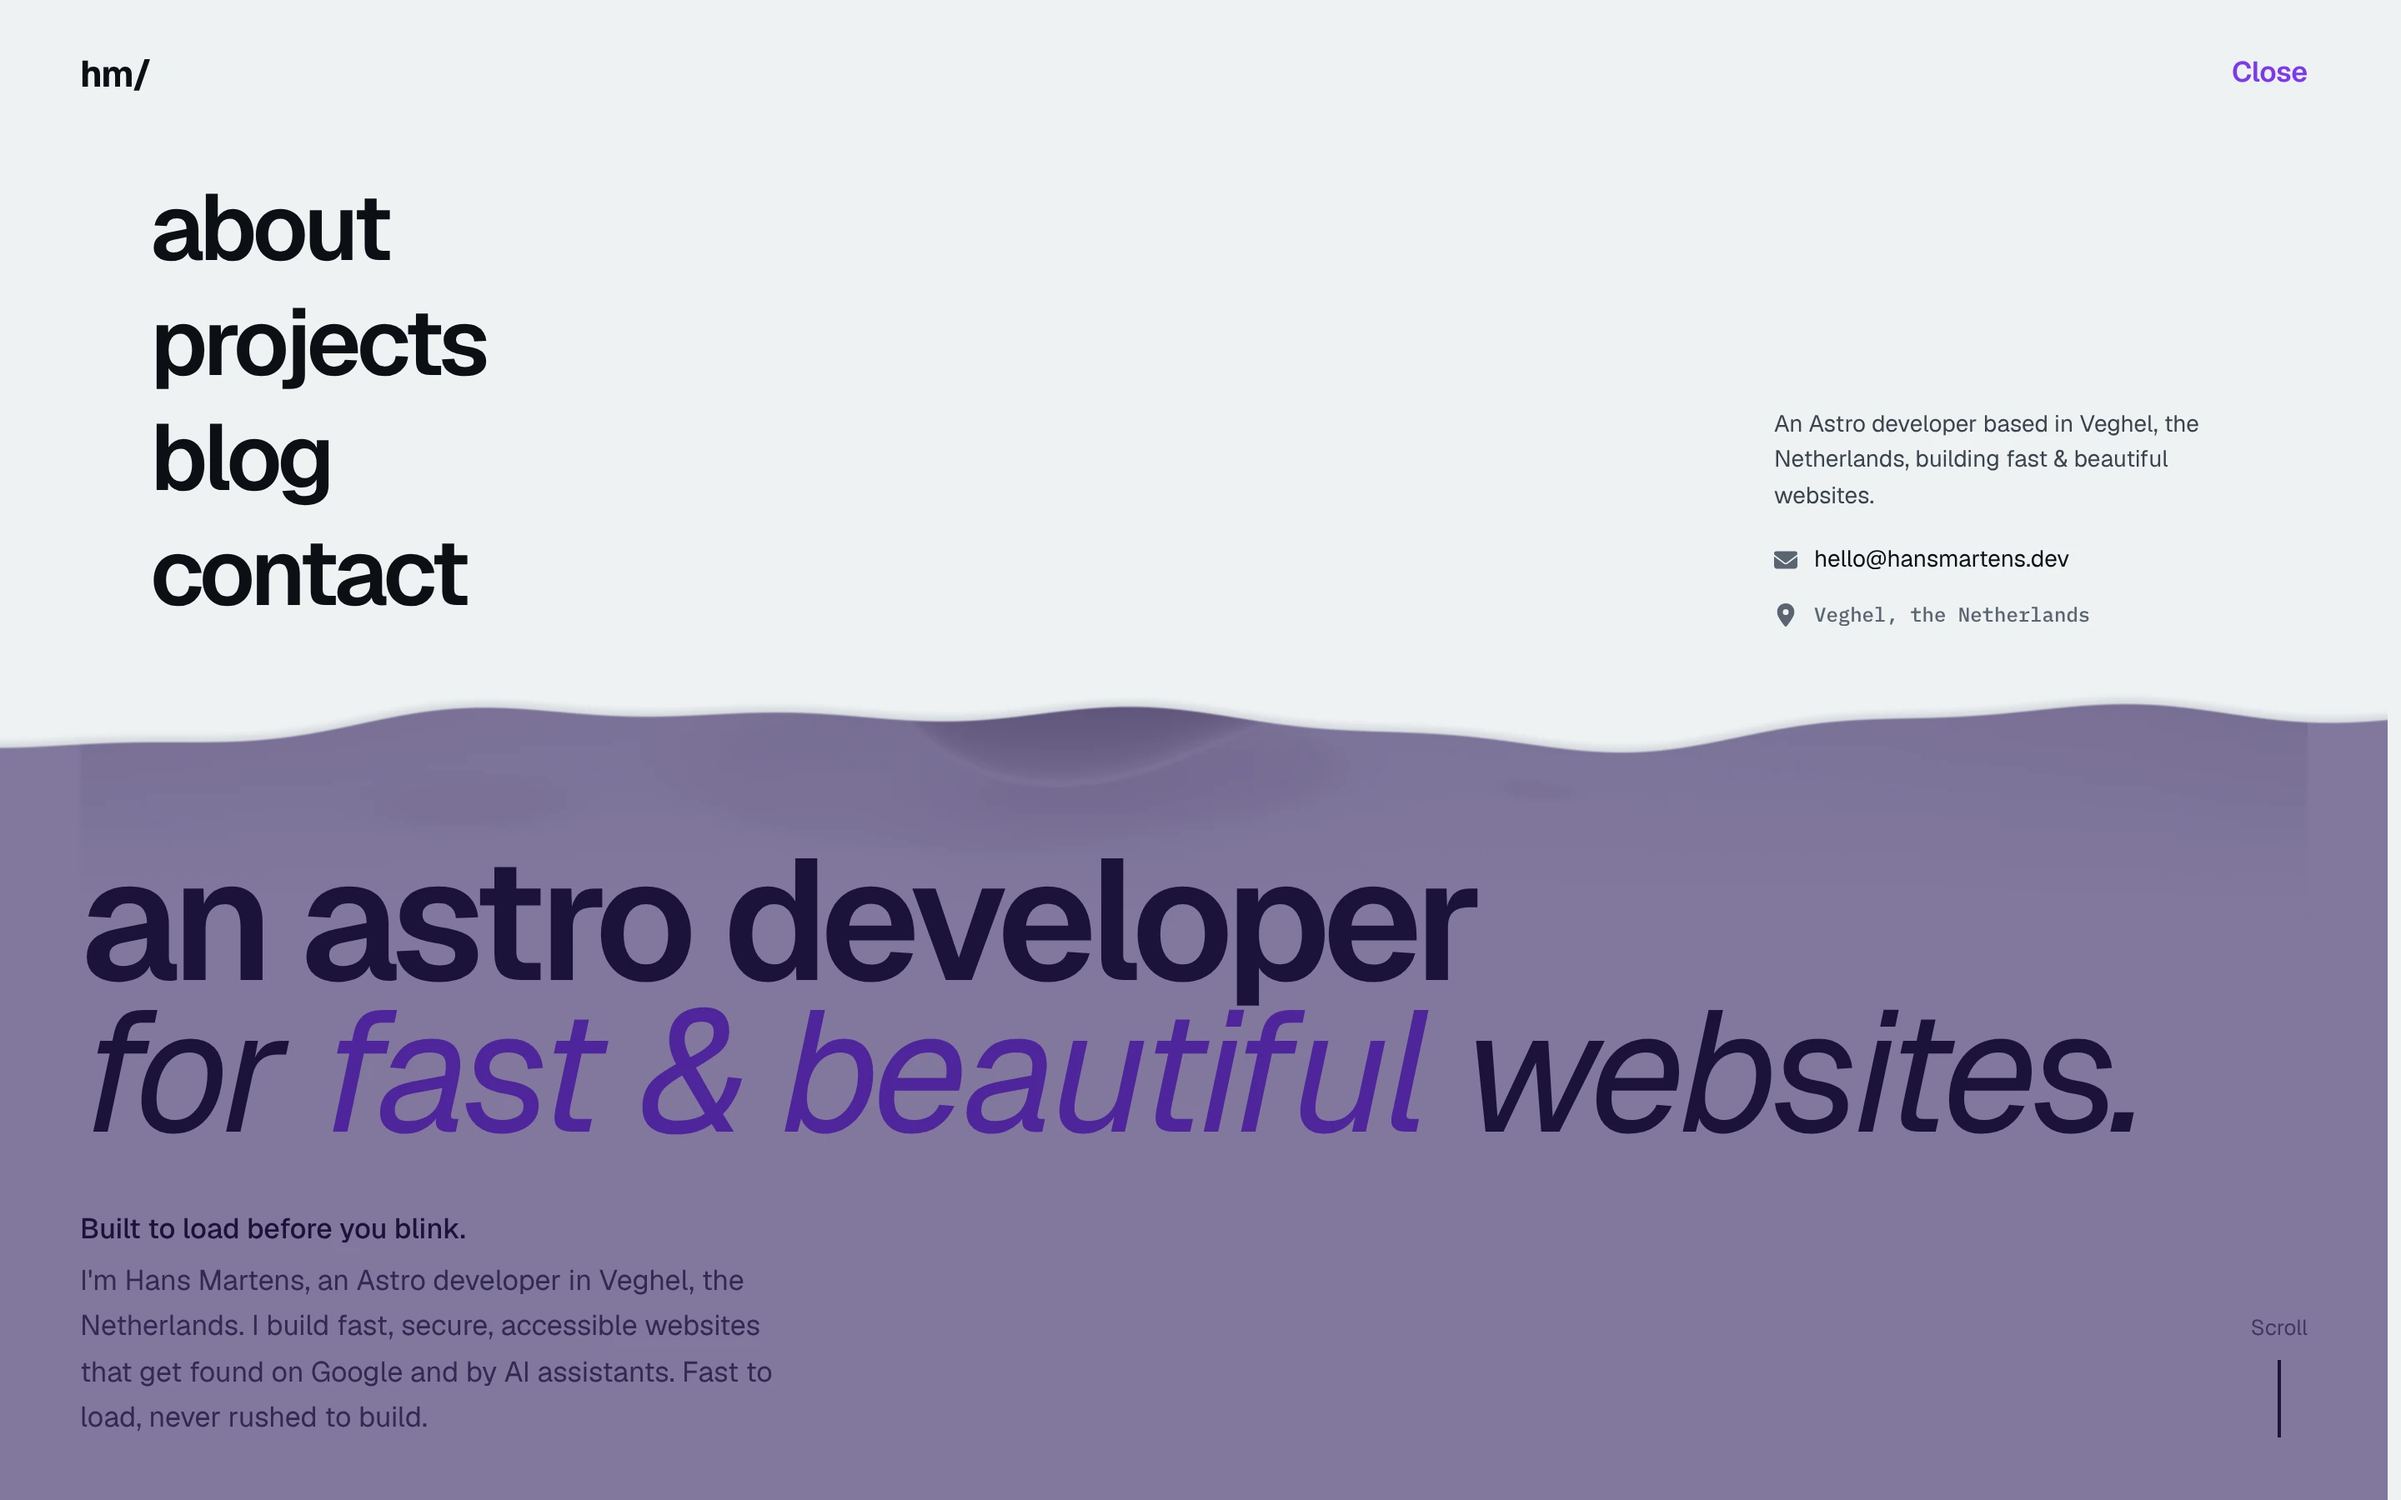
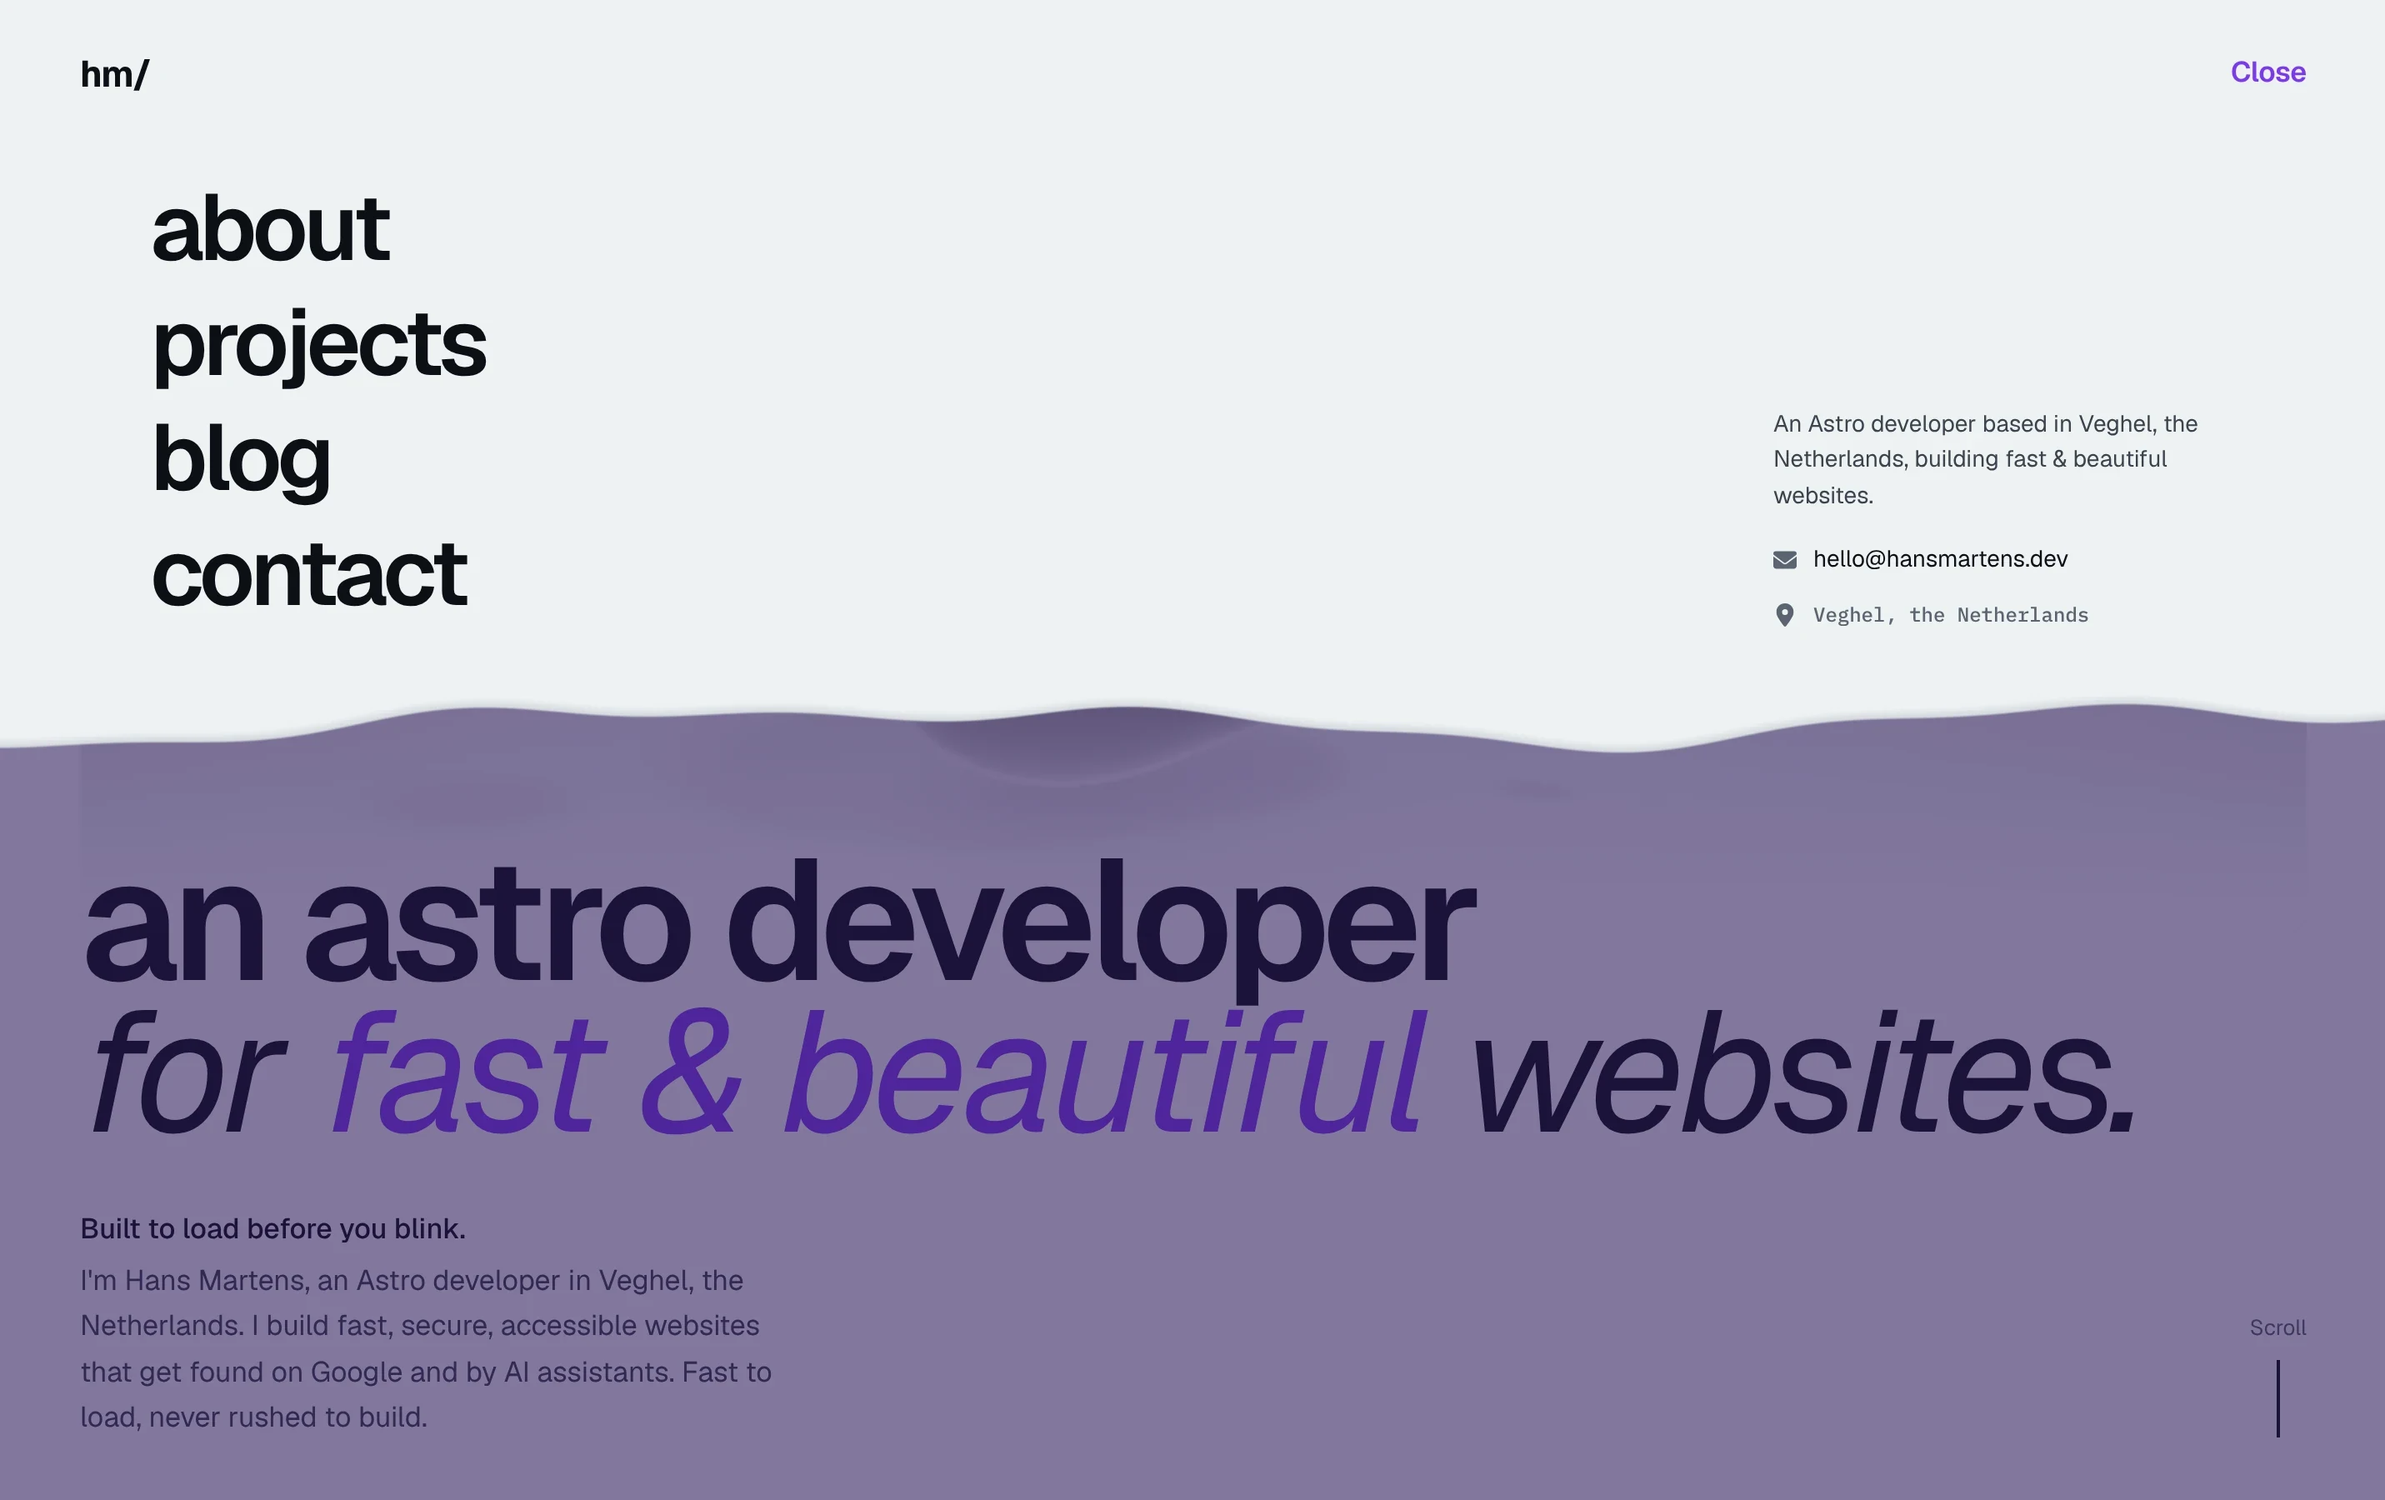
Project 1: a border around the open-menu capture
The capture's top half is the page colour, so it ran into the page.
A frame option on gallery pictures gives it a thin border; the light
strip along its right edge is cropped off.

Claude-Session: https://claude.ai/code/session_01QQKtzRrqmVqCvb8agowgiA

diff --git a/src/content.config.ts b/src/content.config.ts
@@ -104,7 +104,16 @@ const work = defineCollection({
       cover: image().optional(),
       coverAlt: z.string().optional(),
       /** Further captures, shown down the case-study page. */
-      gallery: z.array(z.object({ src: image(), alt: z.string().optional() })).default([]),
+      gallery: z
+        .array(
+          z.object({
+            src: image(),
+            alt: z.string().optional(),
+            /** A thin border, for a capture whose edge is the page colour. */
+            frame: z.boolean().optional(),
+          }),
+        )
+        .default([]),
       /** Caption for the striped placeholder standing in for the capture. */
       placeholder: z.string().optional(),
       /** The two halves of a case study, when they have been written. */

diff --git a/src/content/work/hansmartens-dev.md b/src/content/work/hansmartens-dev.md
@@ -19,6 +19,7 @@ gallery:
     alt: "Three phones showing the homepage, a blog post and the open menu"
   - src: "../../assets/work/hansmartens-dev/menu-open.webp"
     alt: "The open menu: the four pages on a light sheet with a wavy edge, over a violet veil on the homepage"
+    frame: true
   - src: "../../assets/work/hansmartens-dev/from-the-blog.webp"
     alt: "The From the blog card on the homepage, with the post's generated cover"
   - src: "../../assets/work/hansmartens-dev/sign-off.webp"
